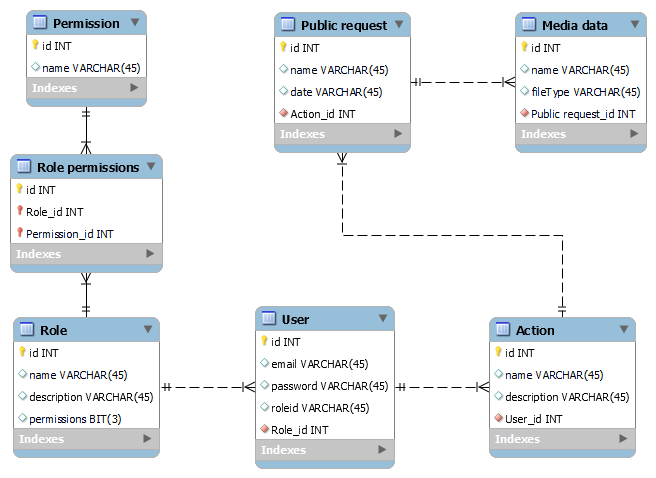
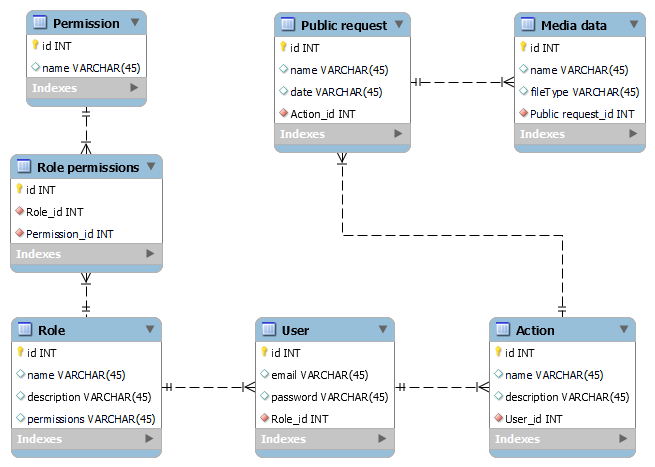
Pre Lab№6

diff --git a/docs/.vuepress/config.js b/docs/.vuepress/config.js
@@ -79,7 +79,7 @@ module.exports = {
     repo: 'https://github.com/IO25SavelievArtem/db-IO25-theme3',
     // Customising the header label
     // Defaults to "GitHub"/"GitLab"/"Bitbucket" depending on `themeConfig.repo`
-    repoLabel: 'Github',
+    repoLabel: 'GitHub',
 
     // Optional options for generating "Edit this page" link
 
@@ -96,7 +96,7 @@ module.exports = {
 
   },
   title: 'Система аналізу медіа-контенту',
-  description: 'Курсова робота з дисципліни "Бази даних"',
+  description: 'Курсова робота з дисципліни "Організація баз даних"',
   configureWebpack: {
     resolve: {
       alias: {

diff --git a/docs/software/README.md b/docs/software/README.md
@@ -22,10 +22,10 @@ USE `db-IO25-theme3` ;
 -- Table `db-IO25-theme3`.`Role`
 -- -----------------------------------------------------
 CREATE TABLE IF NOT EXISTS `db-IO25-theme3`.`Role` (
-  `id` INT NOT NULL,
+  `id` INT UNSIGNED NOT NULL AUTO_INCREMENT,
   `name` VARCHAR(45) NULL,
   `description` VARCHAR(45) NULL,
-  `permissions` BIT(3) NULL,
+  `permissions` VARCHAR(45) NULL,
   PRIMARY KEY (`id`))
 ENGINE = InnoDB;
 
@@ -34,11 +34,10 @@ ENGINE = InnoDB;
 -- Table `db-IO25-theme3`.`User`
 -- -----------------------------------------------------
 CREATE TABLE IF NOT EXISTS `db-IO25-theme3`.`User` (
-  `id` INT NOT NULL,
+  `id` INT UNSIGNED NOT NULL AUTO_INCREMENT,
   `email` VARCHAR(45) NULL,
   `password` VARCHAR(45) NULL,
-  `roleid` VARCHAR(45) NULL,
-  `Role_id` INT NOT NULL,
+  `Role_id` INT UNSIGNED NOT NULL,
   PRIMARY KEY (`id`),
   INDEX `fk_user_Role_idx` (`Role_id` ASC) VISIBLE,
   CONSTRAINT `fk_user_Role`
@@ -53,10 +52,10 @@ ENGINE = InnoDB;
 -- Table `db-IO25-theme3`.`Action`
 -- -----------------------------------------------------
 CREATE TABLE IF NOT EXISTS `db-IO25-theme3`.`Action` (
-  `id` INT NOT NULL,
+  `id` INT UNSIGNED NOT NULL AUTO_INCREMENT,
   `name` VARCHAR(45) NULL,
   `description` VARCHAR(45) NULL,
-  `User_id` INT NOT NULL,
+  `User_id` INT UNSIGNED NOT NULL,
   PRIMARY KEY (`id`),
   INDEX `fk_Action_user1_idx` (`User_id` ASC) VISIBLE,
   CONSTRAINT `fk_Action_user1`
@@ -71,10 +70,10 @@ ENGINE = InnoDB;
 -- Table `db-IO25-theme3`.`Public request`
 -- -----------------------------------------------------
 CREATE TABLE IF NOT EXISTS `db-IO25-theme3`.`Public request` (
-  `id` INT NOT NULL,
+  `id` INT UNSIGNED NOT NULL AUTO_INCREMENT,
   `name` VARCHAR(45) NULL,
   `date` VARCHAR(45) NULL,
-  `Action_id` INT NOT NULL,
+  `Action_id` INT UNSIGNED NOT NULL,
   PRIMARY KEY (`id`),
   INDEX `fk_Public request_Action1_idx` (`Action_id` ASC) VISIBLE,
   CONSTRAINT `fk_Public request_Action1`
@@ -89,10 +88,10 @@ ENGINE = InnoDB;
 -- Table `db-IO25-theme3`.`Media data`
 -- -----------------------------------------------------
 CREATE TABLE IF NOT EXISTS `db-IO25-theme3`.`Media data` (
-  `id` INT NOT NULL,
+  `id` INT UNSIGNED NOT NULL AUTO_INCREMENT,
   `name` VARCHAR(45) NULL,
   `fileType` VARCHAR(45) NULL,
-  `Public request_id` INT NOT NULL,
+  `Public request_id` INT UNSIGNED NOT NULL,
   PRIMARY KEY (`id`),
   INDEX `fk_Media data_Public request1_idx` (`Public request_id` ASC) VISIBLE,
   CONSTRAINT `fk_Media data_Public request1`
@@ -107,7 +106,7 @@ ENGINE = InnoDB;
 -- Table `db-IO25-theme3`.`Permission`
 -- -----------------------------------------------------
 CREATE TABLE IF NOT EXISTS `db-IO25-theme3`.`Permission` (
-  `id` INT NOT NULL,
+  `id` INT UNSIGNED NOT NULL AUTO_INCREMENT,
   `name` VARCHAR(45) NULL,
   PRIMARY KEY (`id`))
 ENGINE = InnoDB;
@@ -117,10 +116,10 @@ ENGINE = InnoDB;
 -- Table `db-IO25-theme3`.`Role permissions`
 -- -----------------------------------------------------
 CREATE TABLE IF NOT EXISTS `db-IO25-theme3`.`Role permissions` (
-  `id` INT NOT NULL,
-  `Role_id` INT NOT NULL,
-  `Permission_id` INT NOT NULL,
-  PRIMARY KEY (`id`, `Role_id`, `Permission_id`),
+  `id` INT UNSIGNED NOT NULL AUTO_INCREMENT,
+  `Role_id` INT UNSIGNED NOT NULL,
+  `Permission_id` INT UNSIGNED NOT NULL,
+  PRIMARY KEY (`id`),
   INDEX `fk_Role permissions_Role1_idx` (`Role_id` ASC) VISIBLE,
   INDEX `fk_Role permissions_Permission1_idx` (`Permission_id` ASC) VISIBLE,
   CONSTRAINT `fk_Role permissions_Role1`
@@ -139,6 +138,7 @@ ENGINE = InnoDB;
 SET SQL_MODE=@OLD_SQL_MODE;
 SET FOREIGN_KEY_CHECKS=@OLD_FOREIGN_KEY_CHECKS;
 SET UNIQUE_CHECKS=@OLD_UNIQUE_CHECKS;
+
 ```
 
 

diff --git a/docs/design/README.md b/docs/design/README.md
@@ -81,11 +81,11 @@ DataManage .up.> Action :instanceOf
 SearchManage .up.> Action :instanceOf 
 SupportManage .up.> Action :instanceOf
 
-Permision "1.1" -- "0." RolePermissions 
-RolePermissions "0." -- "1.1" Role 
+Permision "1.1" -- "0.*" RolePermissions 
+RolePermissions "0.*" -- "1.1" Role 
 Role "1.1" -right- "0.*" User
-MediaData "0." -- "1.1" PubRequest 
-PubRequest "0." -- "1.1" Action
+MediaData "0.*" -- "1.1" PubRequest 
+PubRequest "0.*" -- "1.1" Action
 Action "0.*" -- "1.1" User
 
 @enduml
@@ -158,11 +158,11 @@ DataManage .up.> Action
 SearchManage .up.> Action
 SupportManage .up.> Action
 
-Permision "1.1" -- "0." RolePermissions
-RolePermissions "0." -- "1.1" Role
+Permision "1.1" -- "0.*" RolePermissions
+RolePermissions "0.*" -- "1.1" Role
 Role "1.1" -- "0.*" User
-MediaData "0." -- "1.1" PubRequest
-PubRequest "0." -- "1.1" Action
+MediaData "0.*" -- "1.1" PubRequest
+PubRequest "0.*" -- "1.1" Action
 Action "0.*" -- "1.1" User
 
 @enduml
